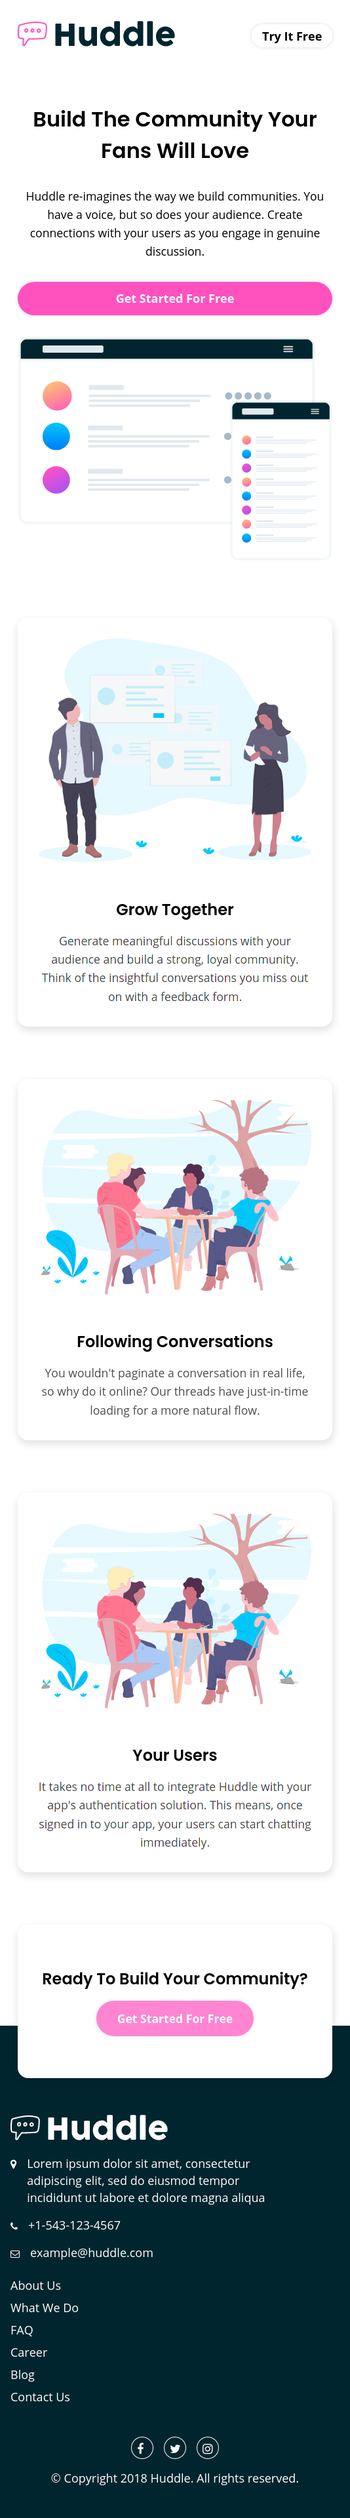
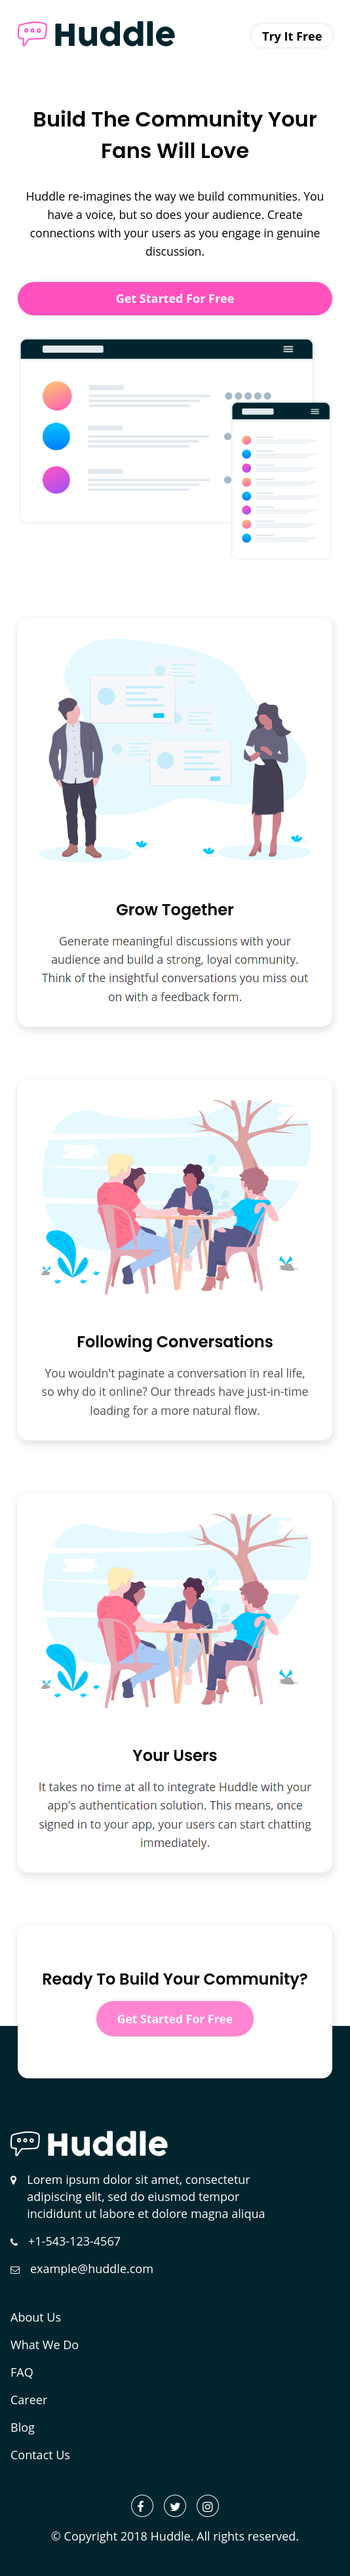
update readme

diff --git a/css/index.css b/css/index.css
@@ -119,12 +119,12 @@ img {
     filter: invert(100%) sepia(0) saturate(50%) hue-rotate(3deg) brightness(1000%) contrast(100%);
     margin-bottom: 1rem; }
   .footer__contact {
-    margin: 1.5rem 0; }
+    margin: 3rem 0; }
   .footer__links-1, .footer__links-2 {
     list-style: none;
     padding: 0; }
     .footer__links-1 li, .footer__links-2 li {
-      margin: 0.5rem 0; }
+      margin: 1rem 0; }
     .footer__links-1 a, .footer__links-2 a {
       text-decoration: none; }
     .footer__links-1 a:visited, .footer__links-1 a:link, .footer__links-1 a:active, .footer__links-2 a:visited, .footer__links-2 a:link, .footer__links-2 a:active {

diff --git a/css/_footer.scss b/css/_footer.scss
@@ -10,7 +10,7 @@
   }
 
   &__contact {
-    margin: 1.5rem 0;
+    margin: 3rem 0;
   }
 
   &__links-1, &__links-2 {
@@ -18,7 +18,7 @@
     padding: 0;
 
     li {
-      margin: 0.5rem 0;
+      margin: 1rem 0;
     }
 
     a {
